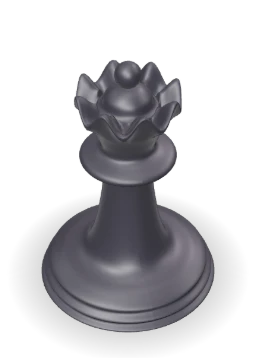
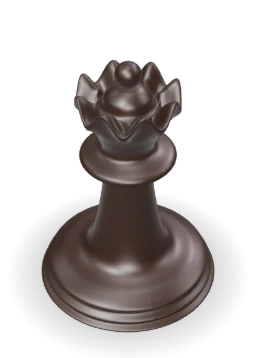
1.10.3: boxwood and ebony chess set with a soft edge on the light pieces

Changed region(s): [[0.1562, 0.1536, 0.8438, 0.9218]]

diff --git a/design/design_handoff_spuzl/design/spuzl3d.js b/design/design_handoff_spuzl/design/spuzl3d.js
@@ -147,7 +147,7 @@ function solidBox(g, n) {
   return { x0, y0, x1, y1, w: x1 - x0 + 1, h: y1 - y0 + 1, baseX: (bx0 + bx1 + 1) / 2 };
 }
 /** A thin outline around the solid piece (not its soft shadow), so it reads on any square. */
-function outline(src, color, px) {
+function outline(src, color, px, blur = 0) {
   const n = src.width, h = src.height;
   const d = src.getContext('2d').getImageData(0, 0, n, h);
   const m = document.createElement('canvas'); m.width = n; m.height = h;
@@ -156,12 +156,18 @@ function outline(src, color, px) {
   for (let i = 0; i < d.data.length; i += 4) if (d.data[i + 3] > 150) { md.data[i] = r; md.data[i + 1] = g; md.data[i + 2] = b; md.data[i + 3] = 255; }
   mg.putImageData(md, 0, 0);
   const o = document.createElement('canvas'); o.width = n; o.height = h;
-  const og = o.getContext('2d'); og.globalAlpha = a;
+  const og = o.getContext('2d'); og.globalAlpha = a; if (blur) og.filter = `blur(${blur}px)`;
   for (let t = 0; t < 24; t++) { const q = t / 24 * Math.PI * 2; og.drawImage(m, Math.cos(q) * px, Math.sin(q) * px); }
-  og.globalAlpha = 1; og.drawImage(src, 0, 0);
+  og.globalAlpha = 1; og.filter = 'none'; og.drawImage(src, 0, 0);
   return o;
 }
-export function pieces(size = 256, opt = {}) {
+/** The live set: boxwood and ebony, with a soft brown edge on the light pieces so they read on light squares. */
+export const PIECE_SET = {
+  white: { color: 0xE2B577, env: .4, rough: .45, exposure: .95, coat: .3 },
+  black: { color: 0x2A1A12, env: .7, rough: .4, coat: .5 },
+  whiteLine: { color: [80, 45, 15, .32], px: 2, blur: 1.4 },
+};
+export function pieces(size = 256, opt = PIECE_SET) {
   const key = 'pieces-v6:' + size + JSON.stringify(opt); const hit = cacheGet(key);
   if (hit) return Promise.resolve(blobMap(JSON.parse(hit)));
   return enqueue(async () => {
@@ -201,7 +207,7 @@ export function pieces(size = 256, opt = {}) {
       g.setTransform(s, 0, 0, s, W / 2 - box.baseX * s, H - FOOT * size - (box.y1 + 1) * s);
       g.drawImage(c, 0, 0);
       const line = k[0] === 'w' ? opt.whiteLine : opt.blackLine;
-      out[k] = (line ? outline(o, line.color, line.px) : o).toDataURL('image/png');
+      out[k] = (line ? outline(o, line.color, line.px, line.blur) : o).toDataURL('image/png');
     }
     renderer.toneMappingExposure = 1.05;
     cacheSet(key, JSON.stringify(out));

diff --git a/games/chess/Piece.tsx b/games/chess/Piece.tsx
@@ -16,7 +16,7 @@ export const B3D = {
 
 const KEYS = ["K", "Q", "R", "B", "N", "P"].flatMap((t) => ["w" + t, "b" + t]);
 /** Bump with every re-render of the sprites (scripts/prerender-3d.mjs) so browsers drop the old ones. */
-const SPRITE_V = 5;
+const SPRITE_V = 6;
 /** Sprites are one square wide and this many squares tall (tall pieces rise into the square behind). */
 const TALL = 1.4;
 const spriteUrl = (key: string) => `/3d/pieces/${key}.webp?v=${SPRITE_V}`;

diff --git a/CHANGELOG.md b/CHANGELOG.md
@@ -1,5 +1,18 @@
 # Changelog
 
+## 1.10.3 (3 November 2026)
+
+### For players
+
+- **Boxwood and ebony chess set.** White pieces are now warm boxwood with a soft brown edge and black pieces dark
+  ebony, so every piece is easy to tell apart on both square colours (the old white pieces were near-pure white and
+  pawns and bishops blurred together). Bishops have a cut in the mitre, so a bishop never reads as a pawn.
+
+### Under the hood
+
+- `spuzl3d.js` `pieces()` takes a set (`PIECE_SET`: material colour, roughness, environment, exposure, and an
+  optional soft outline drawn around the solid piece only). Sprite URLs carry `?v=6`.
+
 ## 1.10.2 (3 November 2026)
 
 ### For players
